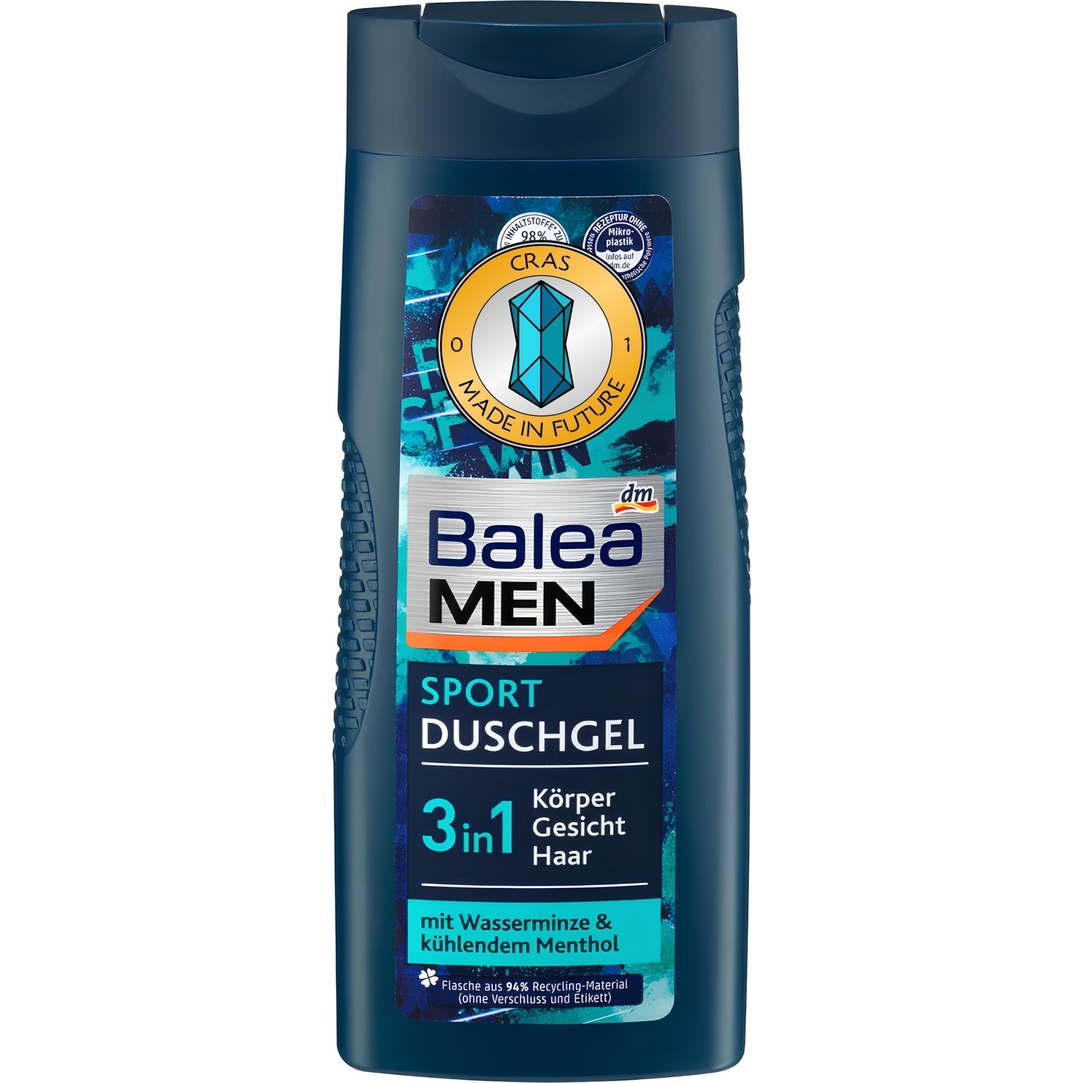
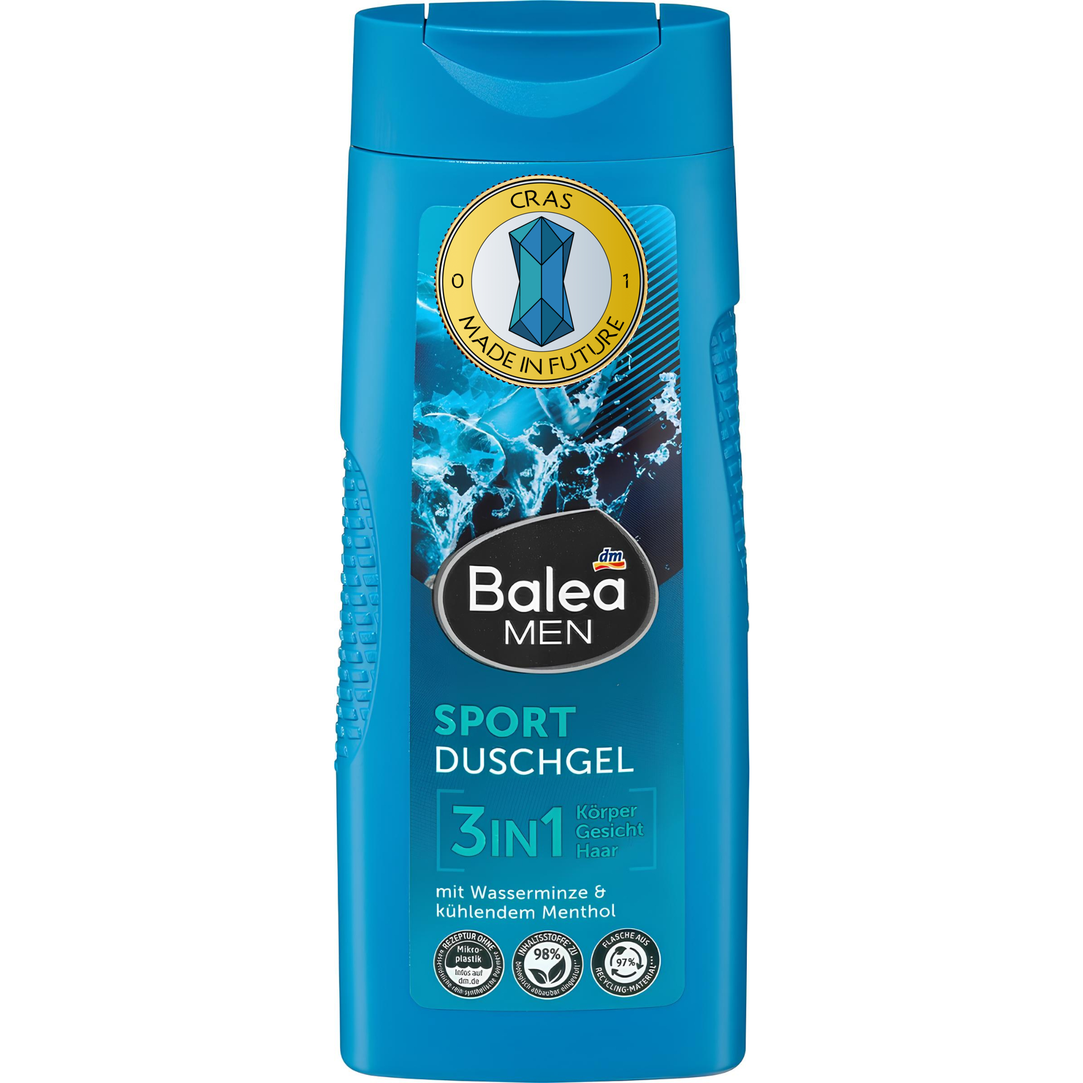
Added Balea

diff --git a/js/food/array-waffles.js b/js/food/array-waffles.js
@@ -114,52 +114,52 @@ export const shopLotsWaffles = [
     //     description04: "<strong>Вафлі молочно-шоколадні. Без шкідливих барвників.</strong>",
     //     description05: "Спробуйте &#171Opavia - Tatranky Mléčné&#187 і зануртесь у безмежний світ смаку та задоволення!"
     // },
-    {
-        type: "retail",
-        url: "./images/shop/food/sweets/waffles/opavia_tatranky_orisky_47.jpg",
-        alt: "opavia_tatranky_orisky_47",
-        url1: "./images/shop/food/sweets/waffles/opavia_tatranky_orisky_47.jpg",
-        alt1: "opavia_tatranky_orisky_47",
-        marker: "FDWF520",
-        brand: "Opavia",
-        search: "опавия опавія татранки татранкі шоколад шоколадные c лесными орехами орешками вафли горіх горіхи горіхами",
-        nameUKR: "Шоколадні вафлі з лісовими горішками",
-        nameEN: "Tatranky S Lískovými Oříšky",
-        companyName: "Mondelez s.r.o.",
-        countryName: "Чехія",
-        weightName: "Вага",
-        weight: "47 гр.",
-        priceGRN: 24,
-        quantityOnStorage: 16,
-        description01: "&#171Opavia - Tatranky S Lískovými Oříšky&#187 - це ідеальний вибір для гурманів та прихильників лісових горішків. Ці вафлі поєднують у собі ніжний смак тонких вафель, які доповнюються хрусткими, ароматними горішками.",
-        description02: "Ці вафлі виготовлені з найкращих інгредієнтів з урахуванням найвищих стандартів якості. Кожен шматочок - це справжній шедевр, який піднесе настрій та подарує Вам енергію на цілий день.",
-        description03: "Завдяки компактній упаковці, &#171Opavia - Tatranky S Lískovými Oříšky&#187 ідеально підходять для подорожей, перекусів на роботі або для солодкого задоволення у будь-який момент.",
-        description04: "<strong>Вафлі шоколадні, з лісовими горіхами. Без шкідливих барвників.</strong>",
-        description05: "Замовте &#171Opavia - Tatranky S Lískovými Oříšky&#187 сьогодні та розкажіть своїй родині історію неперевершеного задоволення!"
-    },
-    {
-        type: "retail",
-        url: "./images/shop/food/sweets/waffles/opavia_tatranky_orisky_47_8.jpg",
-        alt: "opavia_tatranky_orisky_47_8",
-        url1: "./images/shop/food/sweets/waffles/opavia_tatranky_orisky_47_8.jpg",
-        alt1: "opavia_tatranky_orisky_47_8",
-        marker: "FDWF525",
-        brand: "Opavia",
-        search: "опавия опавія татранки татранкі шоколад шоколадные c лесными орехами орешками вафли горіх горіхи горіхами",
-        nameUKR: "Шоколадні вафлі з лісовими горішками",
-        nameEN: "Tatranky S Lískovými Oříšky",
-        companyName: "Mondelez s.r.o.",
-        countryName: "Чехія",
-        weightName: "Вага",
-        weight: "376 гр.",
-        priceGRN: 176,
-        quantityOnStorage: 2,
-        description01: "&#171Opavia - Tatranky S Lískovými Oříšky&#187 - це ідеальний вибір для гурманів та прихильників лісових горішків. Ці вафлі поєднують у собі ніжний смак тонких вафель, які доповнюються хрусткими, ароматними горішками.",
-        description02: "Ці вафлі виготовлені з найкращих інгредієнтів з урахуванням найвищих стандартів якості. Кожен шматочок - це справжній шедевр, який піднесе настрій та подарує Вам енергію на цілий день.",
-        description03: "Завдяки компактній упаковці, &#171Opavia - Tatranky S Lískovými Oříšky&#187 ідеально підходять для подорожей, перекусів на роботі або для солодкого задоволення у будь-який момент.",
-        description04: "<strong>Вафлі шоколадні, з лісовими горіхами. Без шкідливих барвників. 8 шт. у пачці.</strong>",
-        description05: "Замовте &#171Opavia - Tatranky S Lískovými Oříšky&#187 сьогодні та розкажіть своїй родині історію неперевершеного задоволення!"
-    },
+    // {
+    //     type: "retail",
+    //     url: "./images/shop/food/sweets/waffles/opavia_tatranky_orisky_47.jpg",
+    //     alt: "opavia_tatranky_orisky_47",
+    //     url1: "./images/shop/food/sweets/waffles/opavia_tatranky_orisky_47.jpg",
+    //     alt1: "opavia_tatranky_orisky_47",
+    //     marker: "FDWF520",
+    //     brand: "Opavia",
+    //     search: "опавия опавія татранки татранкі шоколад шоколадные c лесными орехами орешками вафли горіх горіхи горіхами",
+    //     nameUKR: "Шоколадні вафлі з лісовими горішками",
+    //     nameEN: "Tatranky S Lískovými Oříšky",
+    //     companyName: "Mondelez s.r.o.",
+    //     countryName: "Чехія",
+    //     weightName: "Вага",
+    //     weight: "47 гр.",
+    //     priceGRN: 24,
+    //     quantityOnStorage: 16,
+    //     description01: "&#171Opavia - Tatranky S Lískovými Oříšky&#187 - це ідеальний вибір для гурманів та прихильників лісових горішків. Ці вафлі поєднують у собі ніжний смак тонких вафель, які доповнюються хрусткими, ароматними горішками.",
+    //     description02: "Ці вафлі виготовлені з найкращих інгредієнтів з урахуванням найвищих стандартів якості. Кожен шматочок - це справжній шедевр, який піднесе настрій та подарує Вам енергію на цілий день.",
+    //     description03: "Завдяки компактній упаковці, &#171Opavia - Tatranky S Lískovými Oříšky&#187 ідеально підходять для подорожей, перекусів на роботі або для солодкого задоволення у будь-який момент.",
+    //     description04: "<strong>Вафлі шоколадні, з лісовими горіхами. Без шкідливих барвників.</strong>",
+    //     description05: "Замовте &#171Opavia - Tatranky S Lískovými Oříšky&#187 сьогодні та розкажіть своїй родині історію неперевершеного задоволення!"
+    // },
+    // {
+    //     type: "retail",
+    //     url: "./images/shop/food/sweets/waffles/opavia_tatranky_orisky_47_8.jpg",
+    //     alt: "opavia_tatranky_orisky_47_8",
+    //     url1: "./images/shop/food/sweets/waffles/opavia_tatranky_orisky_47_8.jpg",
+    //     alt1: "opavia_tatranky_orisky_47_8",
+    //     marker: "FDWF525",
+    //     brand: "Opavia",
+    //     search: "опавия опавія татранки татранкі шоколад шоколадные c лесными орехами орешками вафли горіх горіхи горіхами",
+    //     nameUKR: "Шоколадні вафлі з лісовими горішками",
+    //     nameEN: "Tatranky S Lískovými Oříšky",
+    //     companyName: "Mondelez s.r.o.",
+    //     countryName: "Чехія",
+    //     weightName: "Вага",
+    //     weight: "376 гр.",
+    //     priceGRN: 176,
+    //     quantityOnStorage: 2,
+    //     description01: "&#171Opavia - Tatranky S Lískovými Oříšky&#187 - це ідеальний вибір для гурманів та прихильників лісових горішків. Ці вафлі поєднують у собі ніжний смак тонких вафель, які доповнюються хрусткими, ароматними горішками.",
+    //     description02: "Ці вафлі виготовлені з найкращих інгредієнтів з урахуванням найвищих стандартів якості. Кожен шматочок - це справжній шедевр, який піднесе настрій та подарує Вам енергію на цілий день.",
+    //     description03: "Завдяки компактній упаковці, &#171Opavia - Tatranky S Lískovými Oříšky&#187 ідеально підходять для подорожей, перекусів на роботі або для солодкого задоволення у будь-який момент.",
+    //     description04: "<strong>Вафлі шоколадні, з лісовими горіхами. Без шкідливих барвників. 8 шт. у пачці.</strong>",
+    //     description05: "Замовте &#171Opavia - Tatranky S Lískovými Oříšky&#187 сьогодні та розкажіть своїй родині історію неперевершеного задоволення!"
+    // },
     // {
     //     type: "retail",
     //     url: "./images/shop/food/sweets/waffles/storck_knoppers_25.jpg",

diff --git a/js/hygiene/array-liquid-soap.js b/js/hygiene/array-liquid-soap.js
@@ -275,7 +275,7 @@ export const shopLotsLiquidSoap = [
         description05: "Придбайте антибактеріальне рідке мило &#171Lifebuoy - Caring Handwash Anti-Bacterial Ingridient&#187 з молочним кремом вже сьогодні та надайте Вашим рукам надійний захист і догляд!"
     },
     {
-        type: "wholesale оптом",
+        type: "retail",
         url: "./images/shop/gigiena/soap/liquid_soap/luksja_cotton_b5_400.jpg",
         alt: "luksja_cotton_b5_400",
         url1: "./images/shop/gigiena/soap/liquid_soap/luksja_cotton_b5_400-01.jpg",
@@ -292,7 +292,7 @@ export const shopLotsLiquidSoap = [
         volumeName: "Об'єм",
         volume: "400 мл.",
         priceGRN: 78,
-        priceGRNOpt: 70,
+        quantityOnStorage: 1,
         description01: "Вітаємо у світі розкішного догляду за шкірою з кремовим рідким милом &#171Luksja - Cotton Milk & Provitamin B5&#187. Цей продукт викликає захоплення не лише своїм чудовим ароматом, але і вишуканим складом.",
         description02: "Унікального поєднання молока бавовни та провітаміну B5 у складі мила створюють відчуття неймовірного зволоження та живлення для вашої шкіри, а текстура мила додає невагому комфорту.",
         description03: "&#171Luksja - Cotton Milk & Provitamin B5&#187 пробуджує бажання мати шовковисту, ніжну шкіру, яка виблискує здоров'ям та сяйвом. Дозвольте собі відчути розкіш кожного моменту догляду тільки з натуральними компонентами.",
@@ -300,12 +300,12 @@ export const shopLotsLiquidSoap = [
         description05: "Замовте кремове рідке мило &#171Luksja - Cotton Milk & Provitamin B5&#187 вже зараз, і дозвольте своїй шкірі відчути елегантність та неперевершений дотик!"
     },
     {
-        type: "wholesale оптом",
+        type: "retail",
         url: "./images/shop/gigiena/soap/liquid_soap/luksja_linseed_rice_400.jpg",
         alt: "luksja_linseed_rice_400",
         url1: "./images/shop/gigiena/soap/liquid_soap/luksja_linseed_rice_400.jpg",
         alt1: "luksja_linseed_rice_400",
-        marker: "LQSP330",
+        marker: "LQSP305",
         brand: "Luksja",
         search: "луксия луксія лукся luksia жидкое мыло насіння льону льон семена лена с семенами лена рисове молоко молочко рисовое молоко с рисовым молочком молоком",
         nameUKR: "Кремове рідке мило з насінням льону та рисовим молочком",
@@ -315,7 +315,7 @@ export const shopLotsLiquidSoap = [
         volumeName: "Об'єм",
         volume: "400 мл.",
         priceGRN: 78,
-        priceGRNOpt: 70,
+        quantityOnStorage: 2,
         description01: "Відкрийте для себе новий рівень ніжності з кремовим рідким милом &#171Luksja - Linseed & Rice Milk&#187. Насолоджуйтеся чарівною комбінацією дбайливого льонового насіння та освіжаючого рисового молочка.",
         description02: "Інтенсивно зволожує та залишає шкіру неймовірно м'якою. Відчуйте відданість догляду, яка вибуджує бажання ніжності щоденно.",
         description03: "Відкрийте для себе бездоганний догляд і вирушайте у світ ніжності з &#171Luksja - Linseed & Rice Milk&#187.",
@@ -326,7 +326,7 @@ export const shopLotsLiquidSoap = [
     //     type: "wholesale оптом",
     //     url: "./images/shop/gigiena/soap/liquid_soap/luksja_linseed_rice_400.jpg",
     //     alt: "luksja_linseed_rice_400",
-    //     marker: "LQSP335",
+    //     marker: "LQSP310",
     //     brand: "Luksja",
     //     search: "луксия луксія лукся luksia жидкое мыло насіння льону льон семена лена с семенами лена рисове молоко молочко рисовое молоко с рисовым молочком молоком",
     //     nameUKR: "Кремове рідке мило з насінням льону та рисовим молочком",
@@ -344,7 +344,7 @@ export const shopLotsLiquidSoap = [
     //     description05: "Тільки один крок відокремлює Вас від найбільшого задоволення догляду за шкірою - додайте кремове рідке мило &#171Luksja - Linseed & Rice Milk&#187 у свій кошик!"
     // },
     {
-        type: "wholesale оптом",
+        type: "retail",
         url: "./images/shop/gigiena/soap/liquid_soap/luksja_rose_milk_400.jpg",
         alt: "luksja_rose_milk_400",
         url1: "./images/shop/gigiena/soap/liquid_soap/luksja_rose_milk_400-01.jpg",
@@ -361,7 +361,7 @@ export const shopLotsLiquidSoap = [
         volumeName: "Об'єм",
         volume: "400 мл.",
         priceGRN: 78,
-        priceGRNOpt: 70,
+        quantityOnStorage: 1,
         description01: "&#171Luksja - Rose & Milk Proteins&#187 - Це не просто мило, а витончений альянс аромату троянди та корисних молочних протеїнів, який зачаровує з першого дотику. Ваша шкіра заслуговує тільки найкращого, і це мило - ключ до найніжнішого догляду.",
         description02: "Пориньте у світ загадкової троянди та корисних властивостей молочних протеїнів. Формула мила живить та заспокоює шкіру, роблячи її надзвичайно м'якою та шовковистою.",
         description03: "Мило &#171Luksja - Rose & Milk Proteins&#187 створене для вас. Задовольніть своє бажання і даруйте своїй шкірі справжню красу.",

diff --git a/js/household_chemicals/array-means-hands-washing-dishes.js b/js/household_chemicals/array-means-hands-washing-dishes.js
@@ -692,7 +692,7 @@ export const shopLotsMeansHandsWashingDishes = [
         description05: "Замовте &#171Morning Fresh - Super Corcentrated Apple&#187 зараз і відчуйте різницю вже після першого використання!"
     },
     {
-        type: "wholesale оптом",
+        type: "retail",
         url: "./images/shop/household_chemicals/means_for_washing_dishes/hands/morning_fresh_lemon_900.jpg",
         alt: "morning_fresh_lemon_900",
         url1: "./images/shop/household_chemicals/means_for_washing_dishes/hands/morning_fresh_lemon_900-01.jpg",
@@ -709,38 +709,38 @@ export const shopLotsMeansHandsWashingDishes = [
         volumeName: "Об'єм",
         volume: "900 мл.",
         priceGRN: 130,
-        priceGRNOpt: 117,
+        quantityOnStorage: 2,
         description01: "Засіб для миття посуду &#171Morning Fresh - Super Corcentrated Lemon&#187 змінить Ваше уявлення про чистоту на кухні.",
         description02: "Яскравий аромат лимона дарує відчуття свіжості та натхнення під час миття посуду.",
         description03: "Висококонцентрована формула &#171Morning Fresh - Super Corcentrated Lemon&#187 ефективно розчиняє жир та залишки їжі, забезпечуючи бездоганну чистоту з мінімальним зусиллям.",
         description04: "<strong>Для ручного миття посуду. Концентрат. Аромат: лимон.</strong>",
         description05: "Придбайте &#171Morning Fresh - Super Corcentrated Lemon&#187 сьогодні та насолоджуйтесь ідеально чистим посудом щодня!"
     },
-    // {
-    //     type: "wholesale оптом",
-    //     url: "./images/shop/household_chemicals/means_for_washing_dishes/hands/morning_fresh_original_900.jpg",
-    //     alt: "morning_fresh_original_900",
-    //     url1: "./images/shop/household_chemicals/means_for_washing_dishes/hands/morning_fresh_original_900-01.jpg",
-    //     alt1: "morning_fresh_original_900-01",
-    //     url2: "./images/shop/household_chemicals/means_for_washing_dishes/hands/morning_fresh_original_900-02.jpg",
-    //     alt2: "morning_fresh_original_900-02",
-    //     marker: "MHWD490",
-    //     brand: "Morning Fresh",
-    //     search: "морнинг морнінг фреш средство для мытья мийний мийні забоси стредства посуды посуда оригинал",
-    //     nameUKR: "Засіб для миття посуду, концентрат",
-    //     nameEN: "Super Corcentrated Original",
-    //     companyName: "Cussons",
-    //     countryName: "Англія",
-    //     volumeName: "Об'єм",
-    //     volume: "900 мл.",
-    //     priceGRN: 130,
-    //     priceGRNOpt: 117,
-    //     description01: "Відкрийте новий стандарт чистоти з концентратом для миття посуду &#171Morning Fresh - Super Corcentrated Original&#187.",
-    //     description02: "Свіжий, класичний аромат дарує приємне відчуття свіжості на Вашій кухні.",
-    //     description03: "Високоефективна формула легко видаляє жир і залишки їжі, залишаючи Ваш посуд бездоганно чистим і сяючим.",
-    //     description04: "<strong>Для ручного миття посуду. Концентрат.</strong>",
-    //     description05: "Замовте &#171Morning Fresh - Super Corcentrated Original&#187 зараз і зробіть своє миття посуду максимально ефективним!"
-    // },
+    {
+        type: "wholesale оптом",
+        url: "./images/shop/household_chemicals/means_for_washing_dishes/hands/morning_fresh_original_900.jpg",
+        alt: "morning_fresh_original_900",
+        url1: "./images/shop/household_chemicals/means_for_washing_dishes/hands/morning_fresh_original_900-01.jpg",
+        alt1: "morning_fresh_original_900-01",
+        url2: "./images/shop/household_chemicals/means_for_washing_dishes/hands/morning_fresh_original_900-02.jpg",
+        alt2: "morning_fresh_original_900-02",
+        marker: "MHWD490",
+        brand: "Morning Fresh",
+        search: "морнинг морнінг фреш средство для мытья мийний мийні забоси стредства посуды посуда оригинал",
+        nameUKR: "Засіб для миття посуду, концентрат",
+        nameEN: "Super Corcentrated Original",
+        companyName: "Cussons",
+        countryName: "Англія",
+        volumeName: "Об'єм",
+        volume: "900 мл.",
+        priceGRN: 130,
+        priceGRNOpt: 117,
+        description01: "Відкрийте новий стандарт чистоти з концентратом для миття посуду &#171Morning Fresh - Super Corcentrated Original&#187.",
+        description02: "Свіжий, класичний аромат дарує приємне відчуття свіжості на Вашій кухні.",
+        description03: "Високоефективна формула легко видаляє жир і залишки їжі, залишаючи Ваш посуд бездоганно чистим і сяючим.",
+        description04: "<strong>Для ручного миття посуду. Концентрат.</strong>",
+        description05: "Замовте &#171Morning Fresh - Super Corcentrated Original&#187 зараз і зробіть своє миття посуду максимально ефективним!"
+    },
     {
         type: "wholesale оптом",
         url: "./images/shop/household_chemicals/means_for_washing_dishes/hands/morning_fresh_raspberry_apple_900.jpg",

diff --git a/js/hygiene/array-adult-shower-gels.js b/js/hygiene/array-adult-shower-gels.js
@@ -149,31 +149,31 @@ export const shopLotsAdultShowerGels = [
       description04: "<strong>Гель для душу та обличчя, шампунь. Містить активне вугілля. Для будь-якого типу волосся. pH-нейтральний для шкіри, дерматологічно перевірений. Аромат: кедрове дерево.</strong>",
       description05: "Оцініть перевагу універсального догляду &#171Balea - Men Active Carbon Duschgel 3 in 1 Mit Artivkohle&#187, створеного спеціально для чоловіків!"
    },
-//    {
-//       type: "retail",
-//       url: "./images/shop/gigiena/bath_gels/balea_men_sport_duschgel_300.jpg",
-//       alt: "balea_men_sport_duschgel_300",
-//       url1: "./images/shop/gigiena/bath_gels/balea_men_sport_duschgel_300-01.jpg",
-//       alt1: "balea_men_sport_duschgel_300-01",
-//       url2: "./images/shop/gigiena/bath_gels/balea_men_sport_duschgel_300-02.jpg",
-//       alt2: "balea_men_sport_duschgel_300-02",
-//       marker: "ASFM055",
-//       brand: "Balea",
-//       search: "kuhlendem балеа балея шампуні гелі гели мужчкой шампунь для душа чоловічий чоловічі чоловічій для всех типов волос с мятой мята и ментолом",
-//       nameUKR: "Гель для душу та обличчя, шампунь для чоловіків, з м'ятою та ментолом",
-//       nameEN: "Sport Duschgel 3 in 1 Mit Wasserminze & Kühlendem Menthol",
-//       companyName: "dm-drogerie markt GmbH + Co.",
-//       countryName: "Німеччина",
-//       volumeName: "Об'єм",
-//       volume: "300 мл.",
-//       priceGRN: 65,
-//       quantityOnStorage: 1,
-//       description01: "Підбадьортеся після тренувань з гелем &#171Balea - Sport Duschgel 3 in 1 Mit Wasserminze & Kühlendem Menthol&#187 з водяною м'ятою та охолоджуючим ментолом.",
-//       description02: "Оновлююча формула гелю м'яко очищає тіло, обличчя та волосся, забезпечуючи свіжість і легкість.",
-//       description03: "Ментол у &#171Balea - Sport Duschgel 3 in 1 Mit Wasserminze & Kühlendem Menthol&#187 дарує приємне відчуття прохолоди, яке допоможе швидко відновитися після фізичних навантажень.",
-//       description04: "<strong>Гель для душу та обличчя, шампунь. Для будь-якого типу волосся. pH-нейтральний для шкіри, дерматологічно перевірений. Аромат: м'ята, ментол.</strong>",
-//       description05: "Дозвольте собі комфортний догляд &#171Balea - Sport Duschgel 3 in 1 Mit Wasserminze & Kühlendem Menthol&#187, що поєднує у собі ефективність та освіжаючий ефект!"
-//     },
+   {
+      type: "retail",
+      url: "./images/shop/gigiena/bath_gels/balea_men_sport_duschgel_300.jpg",
+      alt: "balea_men_sport_duschgel_300",
+      url1: "./images/shop/gigiena/bath_gels/balea_men_sport_duschgel_300-01.jpg",
+      alt1: "balea_men_sport_duschgel_300-01",
+      url2: "./images/shop/gigiena/bath_gels/balea_men_sport_duschgel_300-02.jpg",
+      alt2: "balea_men_sport_duschgel_300-02",
+      marker: "ASFM055",
+      brand: "Balea",
+      search: "kuhlendem балеа балея шампуні гелі гели мужчкой шампунь для душа чоловічий чоловічі чоловічій для всех типов волос с мятой мята и ментолом",
+      nameUKR: "Гель для душу та обличчя, шампунь для чоловіків, з м'ятою та ментолом",
+      nameEN: "Sport Duschgel 3 in 1 Mit Wasserminze & Kühlendem Menthol",
+      companyName: "dm-drogerie markt GmbH + Co.",
+      countryName: "Німеччина",
+      volumeName: "Об'єм",
+      volume: "300 мл.",
+      priceGRN: 65,
+      quantityOnStorage: 6,
+      description01: "Підбадьортеся після тренувань з гелем &#171Balea - Sport Duschgel 3 in 1 Mit Wasserminze & Kühlendem Menthol&#187 з водяною м'ятою та охолоджуючим ментолом.",
+      description02: "Оновлююча формула гелю м'яко очищає тіло, обличчя та волосся, забезпечуючи свіжість і легкість.",
+      description03: "Ментол у &#171Balea - Sport Duschgel 3 in 1 Mit Wasserminze & Kühlendem Menthol&#187 дарує приємне відчуття прохолоди, яке допоможе швидко відновитися після фізичних навантажень.",
+      description04: "<strong>Гель для душу та обличчя, шампунь. Для будь-якого типу волосся. pH-нейтральний для шкіри, дерматологічно перевірений. Аромат: м'ята, ментол.</strong>",
+      description05: "Дозвольте собі комфортний догляд &#171Balea - Sport Duschgel 3 in 1 Mit Wasserminze & Kühlendem Menthol&#187, що поєднує у собі ефективність та освіжаючий ефект!"
+    },
     // {
     //     type: "retail",
     //     url: "./images/shop/gigiena/bath_gels/dermomed_almond_1000.jpg",

diff --git a/js/hygiene/array-adult_shampoos.js b/js/hygiene/array-adult_shampoos.js
@@ -199,31 +199,31 @@ export const shopLotsAdultShampoos = [
       description04: "<strong>Гель для душу та обличчя, шампунь. Містить активне вугілля. Для будь-якого типу волосся. pH-нейтральний для шкіри, дерматологічно перевірений. Аромат: кедрове дерево.</strong>",
       description05: "Оцініть перевагу універсального догляду &#171Balea - Men Active Carbon Duschgel 3 in 1 Mit Artivkohle&#187, створеного спеціально для чоловіків!"
   },
-  // {
-  //   type: "retail",
-  //   url: "./images/shop/gigiena/bath_gels/balea_men_sport_duschgel_300.jpg",
-  //   alt: "balea_men_sport_duschgel_300",
-  //   url1: "./images/shop/gigiena/bath_gels/balea_men_sport_duschgel_300-01.jpg",
-  //   alt1: "balea_men_sport_duschgel_300-01",
-  //   url2: "./images/shop/gigiena/bath_gels/balea_men_sport_duschgel_300-02.jpg",
-  //   alt2: "balea_men_sport_duschgel_300-02",
-  //   marker: "ASFM055",
-  //   brand: "Balea",
-  //   search: "kuhlendem балеа балея шампуні шампуни гелі гели мужской шампунь для душа чоловічий чоловічі чоловічій для всех типов волос с мятой мята и ментолом",
-  //   nameUKR: "Гель для душу та обличчя, шампунь для чоловіків, з м'ятою та ментолом",
-  //   nameEN: "Sport Duschgel 3 in 1 Mit Wasserminze & Kühlendem Menthol",
-  //   companyName: "dm-drogerie markt GmbH + Co.",
-  //   countryName: "Німеччина",
-  //   volumeName: "Об'єм",
-  //   volume: "300 мл.",
-  //   priceGRN: 65,
-  //   quantityOnStorage: 1,
-  //   description01: "Підбадьортеся після тренувань з гелем &#171Balea - Sport Duschgel 3 in 1 Mit Wasserminze & Kühlendem Menthol&#187 з водяною м'ятою та охолоджуючим ментолом.",
-  //   description02: "Оновлююча формула гелю м'яко очищає тіло, обличчя та волосся, забезпечуючи свіжість і легкість.",
-  //   description03: "Ментол у &#171Balea - Sport Duschgel 3 in 1 Mit Wasserminze & Kühlendem Menthol&#187 дарує приємне відчуття прохолоди, яке допоможе швидко відновитися після фізичних навантажень.",
-  //   description04: "<strong>Гель для душу та обличчя, шампунь. Для будь-якого типу волосся. pH-нейтральний для шкіри, дерматологічно перевірений. Аромат: м'ята, ментол.</strong>",
-  //   description05: "Дозвольте собі комфортний догляд &#171Balea - Sport Duschgel 3 in 1 Mit Wasserminze & Kühlendem Menthol&#187, що поєднує у собі ефективність та освіжаючий ефект!"
-  // },
+  {
+    type: "retail",
+    url: "./images/shop/gigiena/bath_gels/balea_men_sport_duschgel_300.jpg",
+    alt: "balea_men_sport_duschgel_300",
+    url1: "./images/shop/gigiena/bath_gels/balea_men_sport_duschgel_300-01.jpg",
+    alt1: "balea_men_sport_duschgel_300-01",
+    url2: "./images/shop/gigiena/bath_gels/balea_men_sport_duschgel_300-02.jpg",
+    alt2: "balea_men_sport_duschgel_300-02",
+    marker: "ASFM055",
+    brand: "Balea",
+    search: "kuhlendem балеа балея шампуні шампуни гелі гели мужской шампунь для душа чоловічий чоловічі чоловічій для всех типов волос с мятой мята и ментолом",
+    nameUKR: "Гель для душу та обличчя, шампунь для чоловіків, з м'ятою та ментолом",
+    nameEN: "Sport Duschgel 3 in 1 Mit Wasserminze & Kühlendem Menthol",
+    companyName: "dm-drogerie markt GmbH + Co.",
+    countryName: "Німеччина",
+    volumeName: "Об'єм",
+    volume: "300 мл.",
+    priceGRN: 65,
+    quantityOnStorage: 6,
+    description01: "Підбадьортеся після тренувань з гелем &#171Balea - Sport Duschgel 3 in 1 Mit Wasserminze & Kühlendem Menthol&#187 з водяною м'ятою та охолоджуючим ментолом.",
+    description02: "Оновлююча формула гелю м'яко очищає тіло, обличчя та волосся, забезпечуючи свіжість і легкість.",
+    description03: "Ментол у &#171Balea - Sport Duschgel 3 in 1 Mit Wasserminze & Kühlendem Menthol&#187 дарує приємне відчуття прохолоди, яке допоможе швидко відновитися після фізичних навантажень.",
+    description04: "<strong>Гель для душу та обличчя, шампунь. Для будь-якого типу волосся. pH-нейтральний для шкіри, дерматологічно перевірений. Аромат: м'ята, ментол.</strong>",
+    description05: "Дозвольте собі комфортний догляд &#171Balea - Sport Duschgel 3 in 1 Mit Wasserminze & Kühlendem Menthol&#187, що поєднує у собі ефективність та освіжаючий ефект!"
+  },
   {
       type: "retail",
       url: "./images/shop/gigiena/hair_care/shampoos/cien_provitamin_2in1_300.jpg",

diff --git a/js/household_chemicals/array-washing-powders.js b/js/household_chemicals/array-washing-powders.js
@@ -834,8 +834,8 @@ export const shopLotsWashingPowders = [
         countryName: "Німеччина",
         weightName: "Вага",
         weight: "2.4 кг.",
-        priceGRN: 163,
-        priceGRNOpt: 147,
+        priceGRN: 189,
+        priceGRNOpt: 173,
         description01: "&#171Onyx - Color&#187 відзначається не лише своєю унікальною формулою, але й застосуванням передових технологій для довершеності кольору вашого одягу. Він буде сяяти насиченими відтінками навіть після численних прань.",
         description02: "Завдяки активним ферментам, засіб здатний захистити кольори вашого одягу, навіть при пранні у холодній воді. Він глибоко проникає в тканини, зберігаючи інтенсивність кольорів, як після першого використання.",
         description03: "&#171Onyx - Color&#187 не лише захищає кольори, але і дбає про структуру тканин. Його особлива формула допомагає запобігти вигорянню, складанню та втраті еластичності волокон.",
@@ -859,8 +859,8 @@ export const shopLotsWashingPowders = [
         countryName: "Німеччина",
         weightName: "Вага",
         weight: "2.4 кг.",
-        priceGRN: 163,
-        priceGRNOpt: 147,
+        priceGRN: 189,
+        priceGRNOpt: 173,
         description01: "&#171Onyx - Universal&#187 відмінно справляється з видаленням найтяжчих плям та забезпечує бездоганну чистоту та свіжість вашого одягу. Вам знадобиться всього невелика кількість продукту для одного прання, що дозволить вам значно зекономити та продовжити використання засобу на тривалий час.",
         description02: "Завдяки комбінації активних ферментів та ензимів, порошок глибоко проникає у тканини. Плями від жиру, кави, вина та інших складних речовин зникнуть безслідно.",
         description03: "&#171Onyx - Universal&#187 не тільки допомагає видаляти плями, але й дбає про структуру та кольори тканин. Він забезпечує оптимальний баланс між потужністю видалення забруднень та збереженням якості вашого одягу.",

diff --git a/js/hygiene/array-deodorants.js b/js/hygiene/array-deodorants.js
@@ -17,7 +17,7 @@ export const shopLotsDeodorants = [
         volumeName: "Об'єм",
         volume: "50 мл.",
         priceGRN: 57,
-        quantityOnStorage: 6,
+        quantityOnStorage: 2,
         description01: "Відкрийте для себе свіжість тропіків з дезодорантом &#171Balea - Deodorant Sweet Sunshine Mit Tropesch-Fruchtigem Duft&#187, який дарує неймовірний фруктовий аромат.",
         description02: "Його активна формула ефективно захищає від поту, залишаючи шкіру сухою і доглянутою протягом усього дня.",
         description03: "Завдяки тропічному аромату &#171Balea - Deodorant Sweet Sunshine Mit Tropesch-Fruchtigem Duft&#187, Ви відчуєте легкість і впевненість у будь-яких ситуаціях.",
